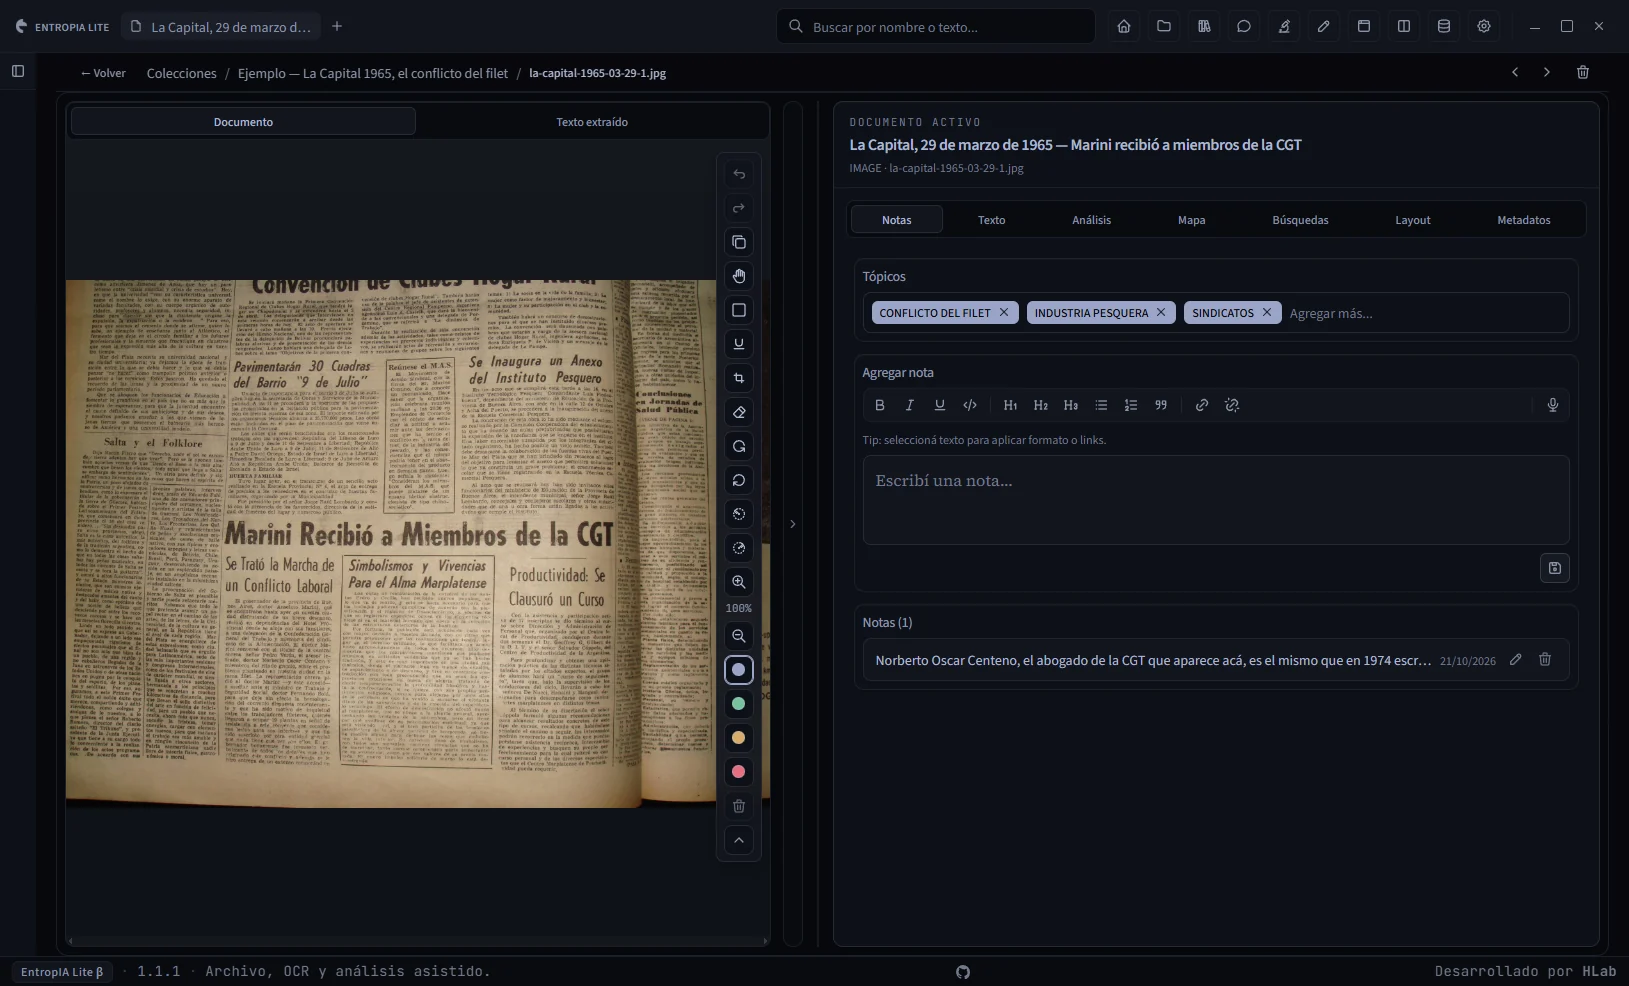
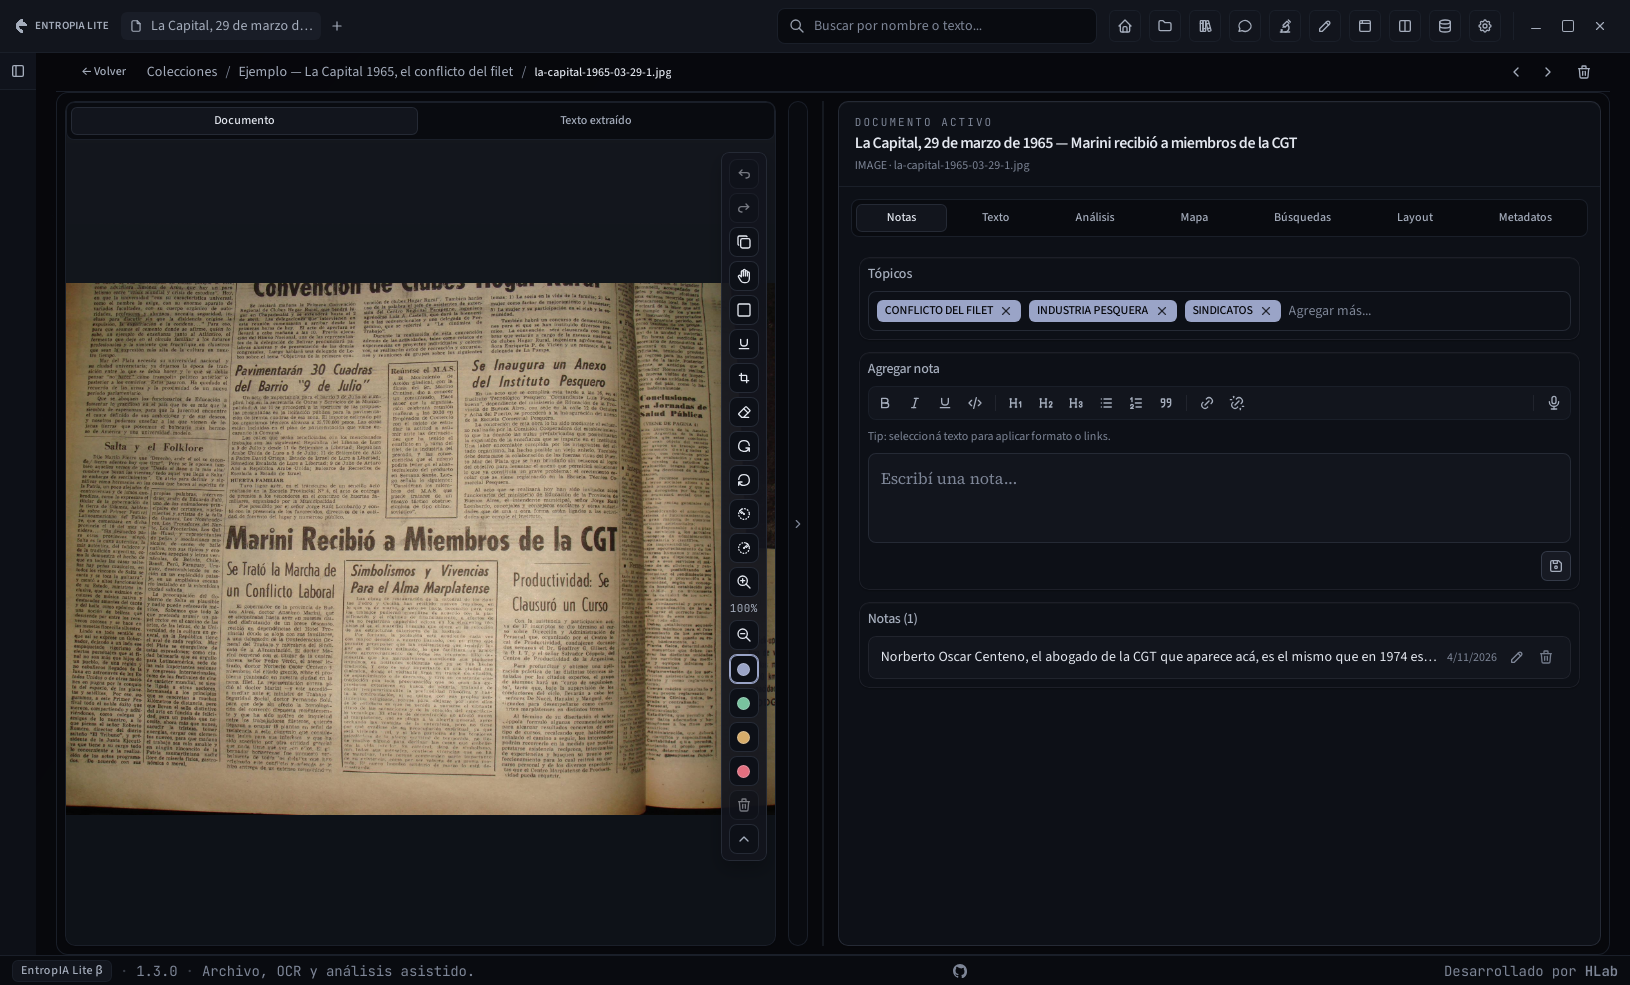
docs(manual): retake the screenshots on 1.3.0 and add two new ones
Eleven captures are retaken on a Lite 1.3.0 build, isolated dev profile,
with the bundled sample collections: Colecciones, a collection with its
text analysis, a document with Notas, the split view and its Inicio
detail, Consulta DB, Escritura and a manuscript, Configuración, and the
Notas and analysis details.

Two are new: the Biblioteca with annotations on a PDF (Facundo, 1845,
public domain) and Configuración > Asistentes with a paired assistant
and the installed connector's lines. The Zotero side of the annotation
capture was a local stand-in; no Zotero account was touched.

Chat, Investigar and its report, the Navegador and the Zotero detail
stay on 1.1.1: they need AI answers, web pages or a real Zotero library.
The manual and the inventory say so, and the alt texts follow the new
images.

Claude-Session: https://claude.ai/code/session_018NiMh486vG37DcDC2BXcm7

diff --git a/manual/manual-usuario/manual-usuario.md b/manual/manual-usuario/manual-usuario.md
@@ -12,7 +12,7 @@ Para comprobar qué versión tenés instalada, mirá la barra inferior.
 
 Este manual acompaña el recorrido completo: **preparar el espacio de trabajo → reunir fuentes → obtener y revisar texto → buscar y analizar → investigar → escribir con citas → exportar y respaldar**. No necesitás configurar todas las funciones para empezar.
 
-> **Cómo leer las imágenes.** Las capturas muestran EntropIA Lite con un corpus de ejemplo; tus títulos, recuentos y resultados serán diferentes. Los recortes están identificados como «Detalle» y conservan la interfaz original. Los diagramas explican procesos, no representan pantallas. Las capturas corresponden a la versión 1.1.1: lo agregado después, como las herramientas de anotación de la Biblioteca o la pestaña **Asistentes** de Configuración, se explica en el texto aunque no se vea en la imagen. En la edición web, pulsá cualquier imagen para abrirla a tamaño completo en otra pestaña.
+> **Cómo leer las imágenes.** Las capturas muestran EntropIA Lite con un corpus de ejemplo; tus títulos, recuentos y resultados serán diferentes. Los recortes están identificados como «Detalle» y conservan la interfaz original. Los diagramas explican procesos, no representan pantallas. La mayoría de las capturas corresponden a la versión 1.3.0. Las del Chat, Investigar y su informe, el Navegador y el detalle de Zotero son de la 1.1.1, porque muestran respuestas de IA, páginas web o una biblioteca de Zotero que no se pueden reproducir con el corpus de ejemplo; esas pantallas no cambiaron de forma visible. En la edición web, pulsá cualquier imagen para abrirla a tamaño completo en otra pestaña.
 
 ### Elegí tu recorrido
 
@@ -689,7 +689,7 @@ La vista actual no importa un DOCX o un Markdown como manuscrito. Si ya tenés t
 
 ### 11.2. Escribir y navegar
 
-![Captura de un manuscrito: Esquema a la izquierda, editor central, estado Guardado y panel de investigación con Zotero abierto.](images/EntropIA-Escrito.webp)
+![Captura de un manuscrito: Esquema a la izquierda, editor central, estado Guardado y panel de investigación con la pestaña Corpus y una búsqueda.](images/EntropIA-Escrito.webp)
 
 El espacio reúne **Esquema**, el manuscrito y el panel de investigación. Usá **Mostrar u ocultar el esquema** y **Mostrar u ocultar el panel de investigación**, o arrastrá sus separadores. Si falta ancho, el esquema puede cerrarse automáticamente. **Volver a los documentos** regresa a la lista y **Más herramientas** muestra opciones que no entran en la barra.
 
@@ -858,6 +858,8 @@ Los PDF de tu biblioteca personal de Zotero se pueden resaltar, subrayar y comen
 
 **Antes de empezar.** Las anotaciones usan la Web API de Zotero, no la comunicación local: guardá en **Configuración → APIs remotas → Zotero** una clave con permiso de escritura en tu biblioteca personal ([16.1](#capitulo-16-configuracion-y-herramientas-generales)). Abrí Zotero al menos una vez para que EntropIA sepa qué cuenta usás. Por ahora funcionan solo en la **biblioteca personal**, no en los grupos.
 
+![Captura de una obra de la Biblioteca en la pestaña Original: el PDF con un resaltado amarillo, un subrayado azul y un resaltado verde, la columna de herramientas y colores de Zotero a la derecha del visor, y el panel Anotaciones con cada marca, su texto y su comentario, agrupadas por página.](images/EntropIA-Biblioteca-anotaciones.webp)
+
 1. En **Biblioteca**, abrí una obra con PDF y quedate en la pestaña **Original**. A la derecha aparece el panel **Anotaciones**.
 2. Seleccioná texto en la página: el menú **Anotar la selección** ofrece resaltar o subrayar con los colores de Zotero. También podés elegir una herramienta en la columna del visor: **Seleccionar**, **Resaltar**, **Subrayar**, **Nota**, **Área** (un recorte rectangular) o **Texto**.
 3. En el panel, cada anotación aparece por página con su tipo (**Resaltado**, **Subrayado**, **Nota**, **Área**, **Texto**, **Dibujo**) y un campo **Agregar un comentario…**. Con una anotación seleccionada, elegir otro color la recolorea; **Eliminar anotación** pide confirmación.
@@ -930,6 +932,8 @@ El agente no modifica el manuscrito automáticamente. Si el pasaje cambió, desa
 ### 13.4. Asistentes externos: Claude Code, Codex, OpenCode y Pi
 
 Además de sus propios agentes, EntropIA puede atender a un **asistente externo** instalado en tu computadora —Claude Code, Codex, OpenCode o Pi— para que consulte tu archivo mientras trabajás con él. La conexión usa el protocolo MCP, está **apagada de entrada**, escucha solo en esta computadora (`127.0.0.1`, nunca en la red local) y funciona igual en Lite y en Pro. EntropIA tiene que estar abierta mientras el asistente trabaja; puede quedar minimizada.
+
+![Captura de Configuración → Asistentes: el interruptor Permitir asistentes externos activo en 127.0.0.1, un asistente emparejado con el permiso Preparar procesamiento y editar el corpus marcado, una carpeta de entrada y las líneas de conexión para Claude Code, Codex, OpenCode y Pi con la ruta del conector instalado.](images/EntropIA-Asistentes.webp)
 
 **Conectar un asistente.**
 
@@ -1044,7 +1048,7 @@ Si necesitás otra capacidad, abrí **Solicitar cambio de plan**, elegí un plan
 <a id="capitulo-16-configuracion-y-herramientas-generales"></a>
 ## Capítulo 16. Configuración y herramientas generales
 
-![Captura de Configuración en Lite: OpenRouter con su prueba de conexión, el respaldo Vercel AI Gateway, AssemblyAI y las pestañas de preferencias, incluida Apariencia. Los campos muestran claves ocultas.](images/EntropIA-Configuracion.webp)
+![Captura de Configuración en Lite recién instalada: tarjetas de OpenRouter, Respaldo Vercel AI Gateway y AssemblyAI todavía sin clave guardada, y la fila de pestañas, incluidas Asistentes y Apariencia.](images/EntropIA-Configuracion.webp)
 
 Abrí **Configuración** con el botón de engranaje de la barra superior. En Lite aparecen estas pestañas:
 

diff --git a/manual/manual-usuario/inventario-funciones-manual.md b/manual/manual-usuario/inventario-funciones-manual.md
@@ -164,7 +164,7 @@ La columna **Sección del manual** enlaza con los pasos y explicaciones correspo
 
 Las capturas originales (PNG) no se versionan en el repositorio; sus copias web se publican en `manual/manual-usuario/images/` como WebP sin pérdida, conservando las dimensiones originales. No se alteraron controles, datos ni resultados. Los ejemplos pertenecen al corpus de las capturas, no a una instalación nueva.
 
-Las capturas se tomaron con la versión 1.1.1. Las funciones agregadas después —las anotaciones de los PDF de la Biblioteca y la pestaña **Asistentes** de Configuración— se describen en el texto pero todavía no aparecen en las imágenes.
+Las capturas se tomaron con la versión 1.3.0 sobre las colecciones de ejemplo, en un perfil de desarrollo aislado. La obra de la Biblioteca es *Facundo* (Sarmiento, 1845), de dominio público, cargada con anotaciones de ejemplo. Las capturas del Chat, Investigar y su informe, el Navegador y el detalle de Zotero siguen siendo de la 1.1.1: muestran respuestas de IA, páginas web o una biblioteca de Zotero real, que no se reproducen con el corpus de ejemplo.
 
 | Captura fuente | Uso en el manual |
 |---|---|
@@ -176,11 +176,14 @@ Las capturas se tomaron con la versión 1.1.1. Las funciones agregadas después 
 | `EntropIA-Investigacion.png` | Informe, cobertura y consulta de la fuente original. |
 | `EntropIA-Chat-RAG.png` | Chat, citas, fuentes e historial. |
 | `EntropIA-Escritura.png` | Lista de manuscritos. |
-| `EntropIA-Escrito.png` | Editor de manuscrito y panel de investigación; detalle de Zotero. |
+| `EntropIA-Escrito.png` | Editor de manuscrito y panel de investigación con la pestaña Corpus. |
 | `EntropIA-Configuracion.png` | Proveedores remotos y navegación de Configuración. |
 | `EntropIA-Base.png` | Consulta DB, filtros, datos y exportación. |
+| `EntropIA-Navegador.png` | Navegador con una solapa abierta (1.1.1). |
+| `EntropIA-Biblioteca-anotaciones.png` | Obra de la Biblioteca con anotaciones y el panel **Anotaciones**. |
+| `EntropIA-Asistentes.png` | Configuración → Asistentes: emparejar, permisos, carpetas de entrada y líneas de conexión. |
 
-Los cuatro recortes se publican como `EntropIA-Inicio-detalle.webp`, `EntropIA-Analisis-detalle.webp`, `EntropIA-Notas-detalle.webp` y `EntropIA-Zotero-detalle.webp`. Solo eliminan áreas externas al panel explicado.
+Los cuatro recortes se publican como `EntropIA-Inicio-detalle.webp`, `EntropIA-Analisis-detalle.webp`, `EntropIA-Notas-detalle.webp` y `EntropIA-Zotero-detalle.webp` (este último, de la 1.1.1). Solo eliminan áreas externas al panel explicado.
 
 Los diagramas restantes ilustran flujos de OCR, organización, lotes, sincronización, ejemplos y resolución de problemas; no sustituyen capturas ni afirman que se hayan ejecutado esas tareas con el corpus mostrado.
 
